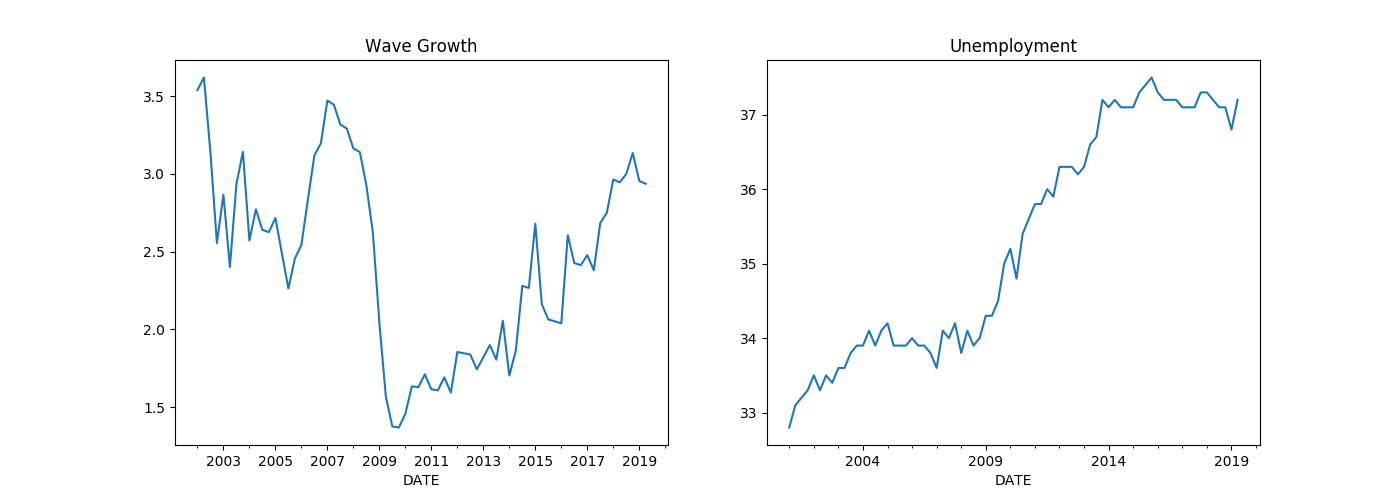
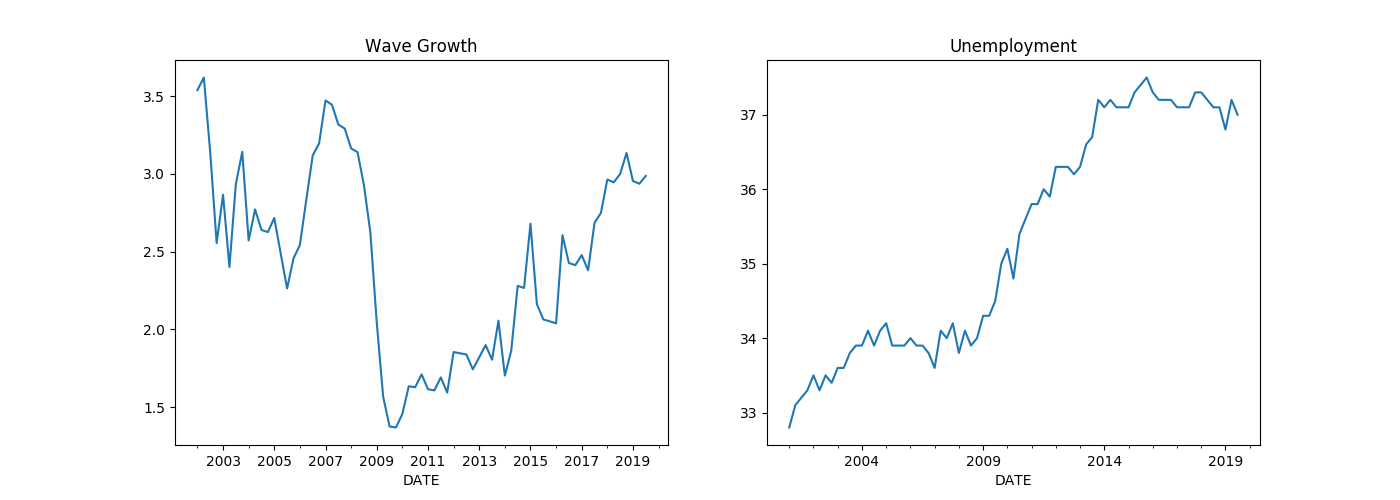
-

diff --git a/en/2019/05/stats.md b/en/2019/05/stats.md
@@ -142,7 +142,7 @@ import pandas as pd, datetime
 from pandas_datareader import data
 
 start=datetime.datetime(1950, 1, 1)
-end=datetime.datetime(2019, 6, 1)
+end=datetime.datetime(2019, 11, 1)
 cols = ['ECIWAG','CIVPART']
 df3 = data.DataReader(cols, 'fred', start, end)
 df3 = df3.dropna()
